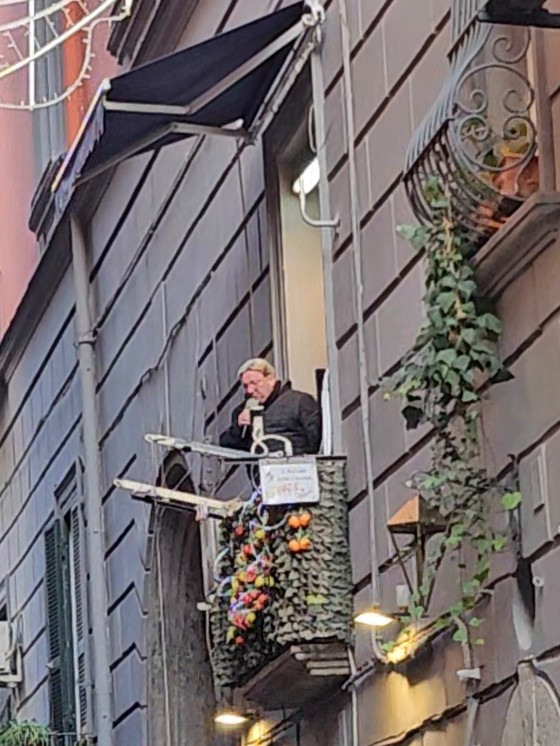
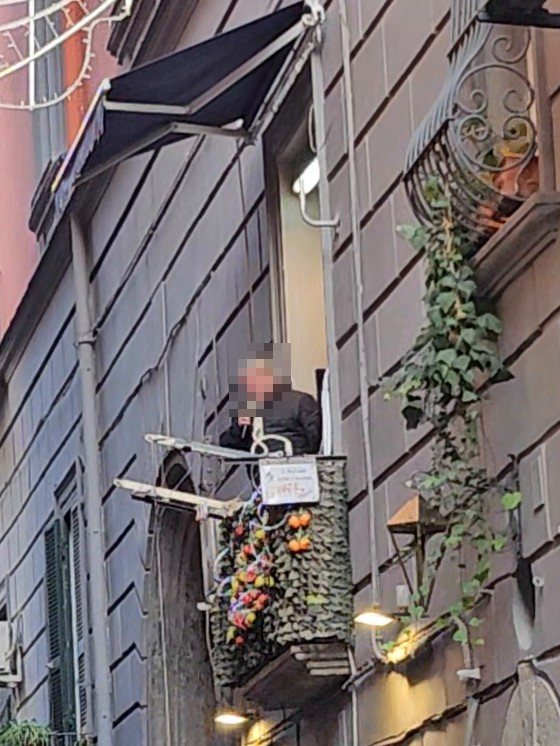
Add flight/hotel info to Naples and Taiwan articles; blur strangers' faces
- New "旅の基本情報（飛行機・宿）" card (flight, hotel) in both articles, with TOC link
  and cost-board rows
- Mosaic on strangers' faces in two Taiwan photos and the Naples street singer;
  replace a crowded Taiwan street photo with a lake photo
- Taiwan intro: 4th trip to Taiwan

Changed region(s): [[0.3946, 0.4625, 0.5464, 0.5858]]

diff --git a/articles/taiwan04.html b/articles/taiwan04.html
@@ -44,7 +44,7 @@
 
 <section class="article-intro container">
   <div class="article-prose">
-    <p>友達と2人で、台湾に3泊4日で行ってきました。何度か来ている台湾ですが、今回も食べ歩きが中心です。小籠包にネギ餅、足湯に日月潭、最後は台湾おにぎりまで、気がつけば食べてばかりの旅でした。料金は台湾元（元）で、日本円は1元＝約5円で計算しています。日ごとに、時間の流れに沿って書いていきます。</p>
+    <p>友達と2人で、台湾に3泊4日で行ってきました。台湾は今回で4度目ですが、今回も食べ歩きが中心です。小籠包にネギ餅、足湯に日月潭、最後は台湾おにぎりまで、気がつけば食べてばかりの旅でした。料金は台湾元（元）で、日本円は1元＝約5円で計算しています。日ごとに、時間の流れに沿って書いていきます。</p>
   </div>
 </section>
 
@@ -79,6 +79,7 @@
     <li><a href="#tl-0427-1130"><time>11:30</time><span>空港ラウンジ</span></a></li>
   </ol>
   <ul class="toc-more">
+    <li><a href="#basic">飛行機・宿</a></li>
     <li><a href="#map">地図</a></li>
     <li><a href="#journey">旅程の振り返り</a></li>
     <li><a href="#info">料金・場所・お役立ち情報</a></li>
@@ -464,7 +465,7 @@
       <div class="timeline-photos timeline-photos--3">
         <div class="timeline-photo timeline-photo--portrait" style="background-image:url('../images/Taiwan04/20260426_143546.jpg');"></div>
         <div class="timeline-photo timeline-photo--portrait" style="background-image:url('../images/Taiwan04/20260426_142033.jpg');"></div>
-        <div class="timeline-photo timeline-photo--portrait" style="background-image:url('../images/Taiwan04/20260426_144710.jpg');"></div>
+        <div class="timeline-photo timeline-photo--portrait" style="background-image:url('../images/Taiwan04/20260426_153816.jpg');"></div>
       </div>
       <div class="item-tags">
         <span class="cat-tag cat-tag--meal">食事</span>
@@ -670,11 +671,36 @@
     </div>
     <div class="notes-board">
 
+      <article class="notes-card" id="basic">
+        <h3>旅の基本情報（飛行機・宿）</h3>
+        <div class="basic-block">
+          <h4>飛行機</h4>
+          <dl class="basic-list">
+            <dt>航空会社</dt><dd>キャセイパシフィック航空</dd>
+            <dt>ルート</dt><dd>成田国際空港 16:00発 → 台北桃園国際空港 19:00着（約4時間）</dd>
+            <dt>航空券</dt><dd>1名・往復で 42,700円</dd>
+            <dt>メモ</dt><dd>機内食にハーゲンダッツが出ます。ドリンクは、ジュースからワイン、ビールまであります</dd>
+          </dl>
+        </div>
+        <div class="basic-block">
+          <h4>宿（台北）</h4>
+          <dl class="basic-list">
+            <dt>ホテル</dt><dd>リンクワールドホテル（台北）</dd>
+            <dt>場所</dt><dd>No. 5, Lane 90, Songjiang Rd, Zhongshan District, Taipei City</dd>
+            <dt>部屋</dt><dd>ツインベッド</dd>
+            <dt>宿泊費</dt><dd>48,466円（3泊の合計）</dd>
+            <dt>評価</dt><dd>★4（5段階）。清掃が行き届いていて、受付の方も丁寧です</dd>
+            <dt>メモ</dt><dd>台北駅からホテルへは、MRTを経由する必要があるので、タクシーが一番いいです。夜ごはんの京鼎楼へは、ホテルから歩いて行けます</dd>
+          </dl>
+        </div>
+      </article>
+
       <article class="notes-card">
         <h3>料金まとめ</h3>
         <p class="rate-note">台湾元は、<b>1元＝約5円</b> で計算しています</p>
         <ul class="cost-list">
           <li><span class="cost-name">航空券（キャセイパシフィック）</span><span class="cost-value">1名 往復 42,700円</span></li>
+          <li><span class="cost-name">宿泊（リンクワールドホテル）</span><span class="cost-value">48,466円</span><span class="cost-memo">3泊の合計</span></li>
           <li><span class="cost-name">周家豆腐捲　ビーフロール</span><span class="cost-value">100元（約500円）</span></li>
           <li><span class="cost-name">天津蔥抓餅　ネギ餅（味付けなし）</span><span class="cost-value">30元（約150円）</span></li>
           <li><span class="cost-name">北投青磺名湯　ドクターフィッシュ</span><span class="cost-value">80元（約400円）</span></li>

diff --git a/articles/italy01-naples.html b/articles/italy01-naples.html
@@ -65,6 +65,7 @@
       <li><a href="#tl-2100"><time>21:00</time><span>スーパーでお土産</span></a></li>
   </ol>
   <ul class="toc-more">
+    <li><a href="#basic">飛行機・宿</a></li>
     <li><a href="#map">地図と歩いた距離</a></li>
     <li><a href="#journey">旅程の振り返り</a></li>
     <li><a href="#info">料金・場所・お役立ち情報</a></li>
@@ -536,10 +537,37 @@
     </div>
     <div class="notes-board">
 
+      <article class="notes-card" id="basic">
+        <h3>旅の基本情報（飛行機・宿）</h3>
+        <div class="basic-block">
+          <h4>飛行機</h4>
+          <dl class="basic-list">
+            <dt>航空会社</dt><dd>中国東方航空</dd>
+            <dt>ルート</dt><dd>羽田空港（第3ターミナル）→ 上海（浦東国際空港）で乗り継ぎ → ローマ（フィウミチーノ空港）</dd>
+            <dt>乗り継ぎ</dt><dd>1時間35分。ぎりぎりでしたが、間に合いました</dd>
+            <dt>航空券</dt><dd>1名・往復で 132,060円</dd>
+            <dt>メモ</dt><dd>乗り継ぎは、同じターミナルで空港内の電車を使わないなら、最低2時間あると安心。機内は乾燥して寒いので、水筒とマスクがあると助かります</dd>
+          </dl>
+        </div>
+        <div class="basic-block">
+          <h4>宿（ローマ）</h4>
+          <dl class="basic-list">
+            <dt>ホテル</dt><dd>Hotel Nord Nuova Roma（<a href="https://www.hotelnordnuovaroma.it/en/" target="_blank" rel="noopener">公式サイト</a>）</dd>
+            <dt>場所</dt><dd>Via Giovanni Amendola, 3, 00185 Roma（テルミニ駅から徒歩10分）</dd>
+            <dt>部屋</dt><dd>クイーンベッド</dd>
+            <dt>宿泊費</dt><dd>約70,000円（4泊の合計の目安）</dd>
+            <dt>評価</dt><dd>★4（5段階）。駅から近くて、受付の対応が良く、清掃も行き届いていてきれい。ほかにも日本人の宿泊客がいました</dd>
+            <dt>メモ</dt><dd>エレベーターが日本のイメージとまったく違って驚きましたが、問題なく使えました。ナポリへは、ここを拠点に日帰りで行きました</dd>
+          </dl>
+        </div>
+      </article>
+
       <article class="notes-card">
         <h3>料金まとめ</h3>
         <p class="rate-note">円は、当時のレート <b>1€＝約180円</b> で計算しています</p>
         <ul class="cost-list">
+          <li><span class="cost-name">航空券（中国東方航空）</span><span class="cost-value">1名 往復 132,060円</span></li>
+          <li><span class="cost-name">宿泊（Hotel Nord Nuova Roma）</span><span class="cost-value">約70,000円</span><span class="cost-memo">4泊の合計の目安</span></li>
           <li><span class="cost-name">新幹線（ローマ → ナポリ）</span><span class="cost-value">2名で約100€（約18,000円）</span><span class="cost-memo">1名あたり約50€（約9,000円）。早めに買うともっと安くなります</span></li>
           <li><span class="cost-name">ダ・ミケーレ　マルゲリータ</span><span class="cost-value">6€（約1,000円）</span></li>
           <li><span class="cost-name">ダ・ミケーレ　合計</span><span class="cost-value">2名で18€（約3,200円）</span><span class="cost-memo">ピザ2枚とドリンク。現金のみで、20€を払って、おつり2€はチップに</span></li>

diff --git a/css/style.css b/css/style.css
@@ -2141,3 +2141,49 @@ body.lightbox-open {
   color: rgba(255, 255, 255, 0.5);
   font-size: 0.85rem;
 }
+
+/* Trip basics (flight / hotel) */
+.basic-block + .basic-block {
+  margin-top: 18px;
+}
+
+.basic-block h4 {
+  margin: 0 0 8px;
+  font-size: 0.82rem;
+  letter-spacing: 0.12em;
+  color: var(--color-accent);
+}
+
+.basic-list {
+  display: grid;
+  grid-template-columns: 7.5em 1fr;
+  gap: 8px 14px;
+  margin: 0;
+  font-size: 0.9rem;
+}
+
+.basic-list dt {
+  color: var(--color-text-soft);
+}
+
+.basic-list dd {
+  margin: 0;
+  overflow-wrap: anywhere;
+}
+
+.basic-list a {
+  color: var(--color-accent-dark);
+  text-decoration: underline;
+}
+
+@media (max-width: 680px) {
+  .basic-list {
+    grid-template-columns: 1fr;
+    gap: 2px 0;
+  }
+
+  .basic-list dt {
+    margin-top: 8px;
+    font-size: 0.78rem;
+  }
+}
